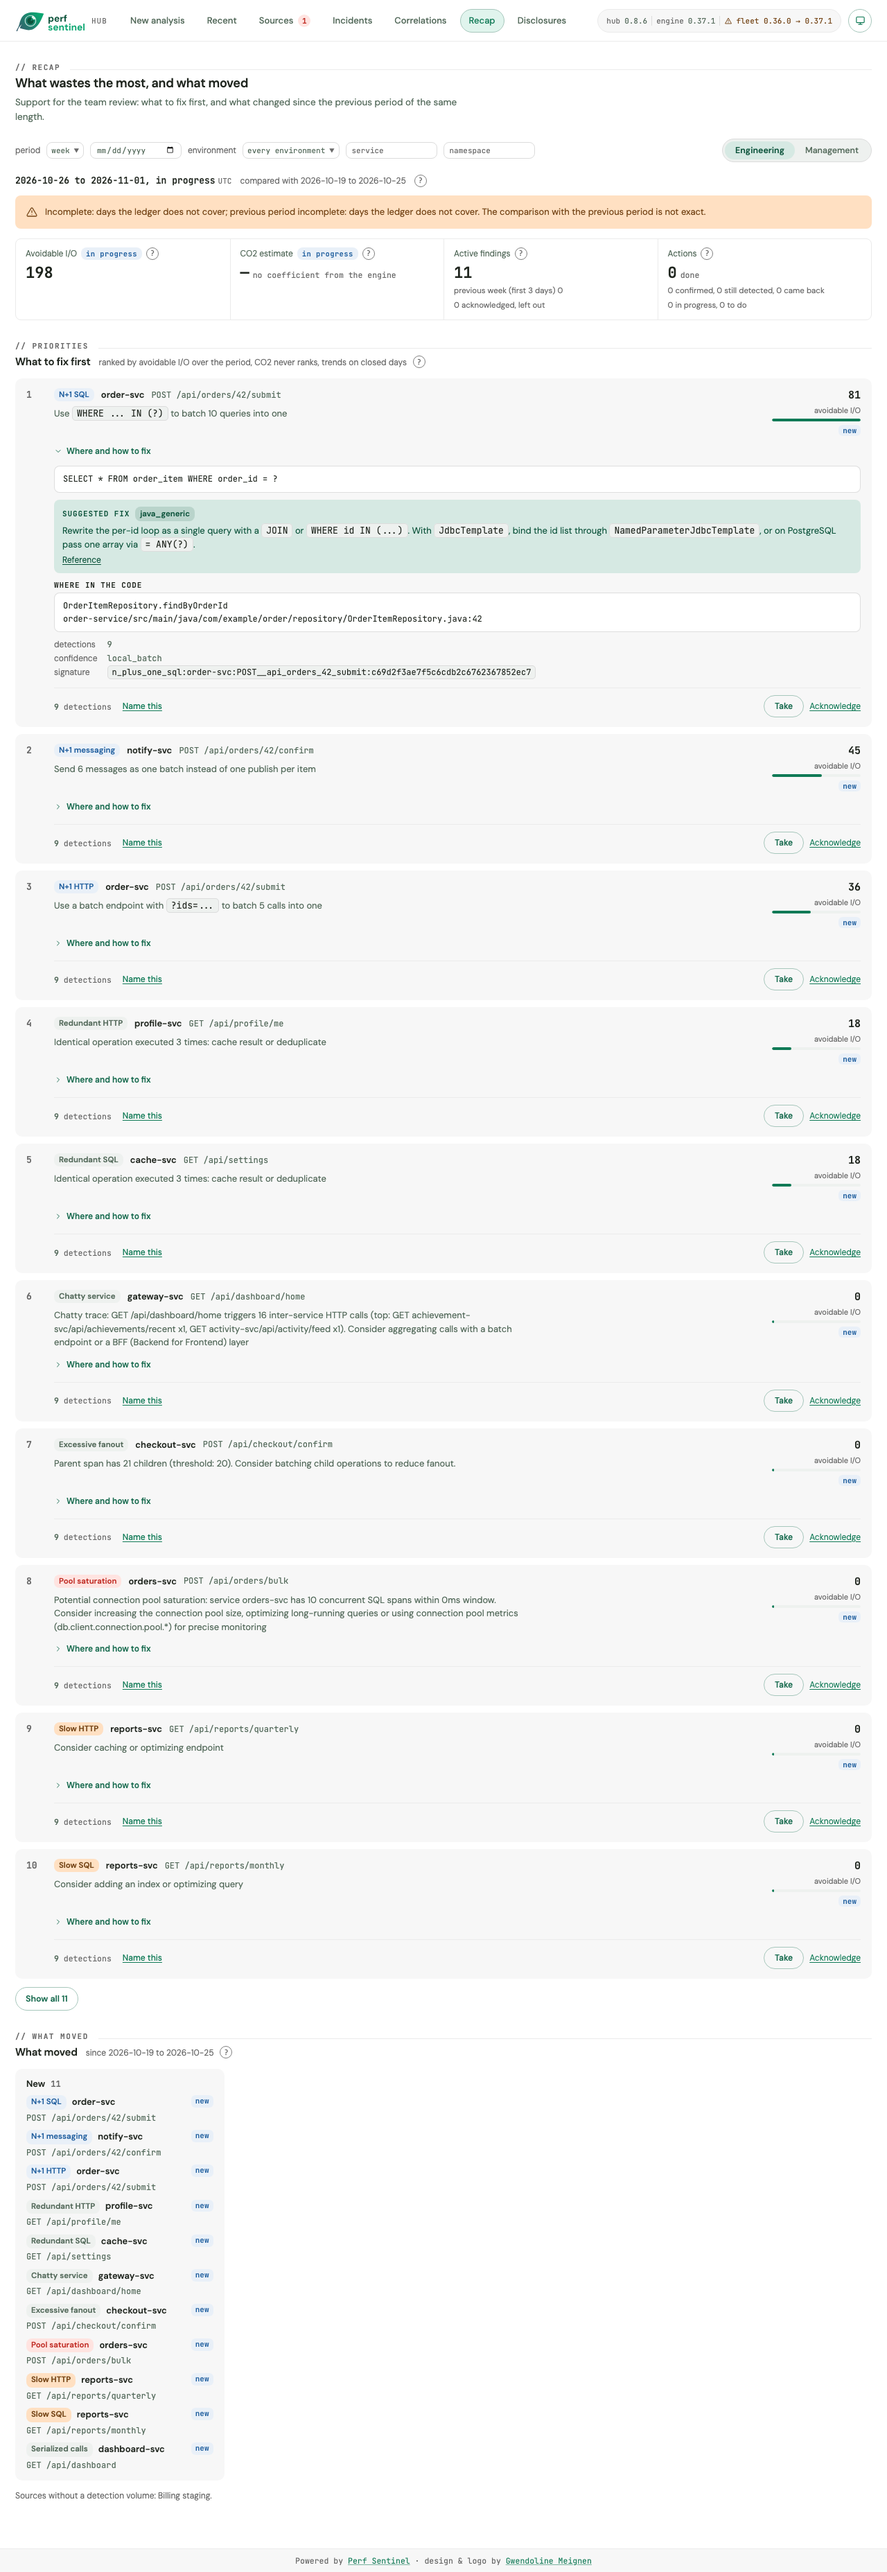
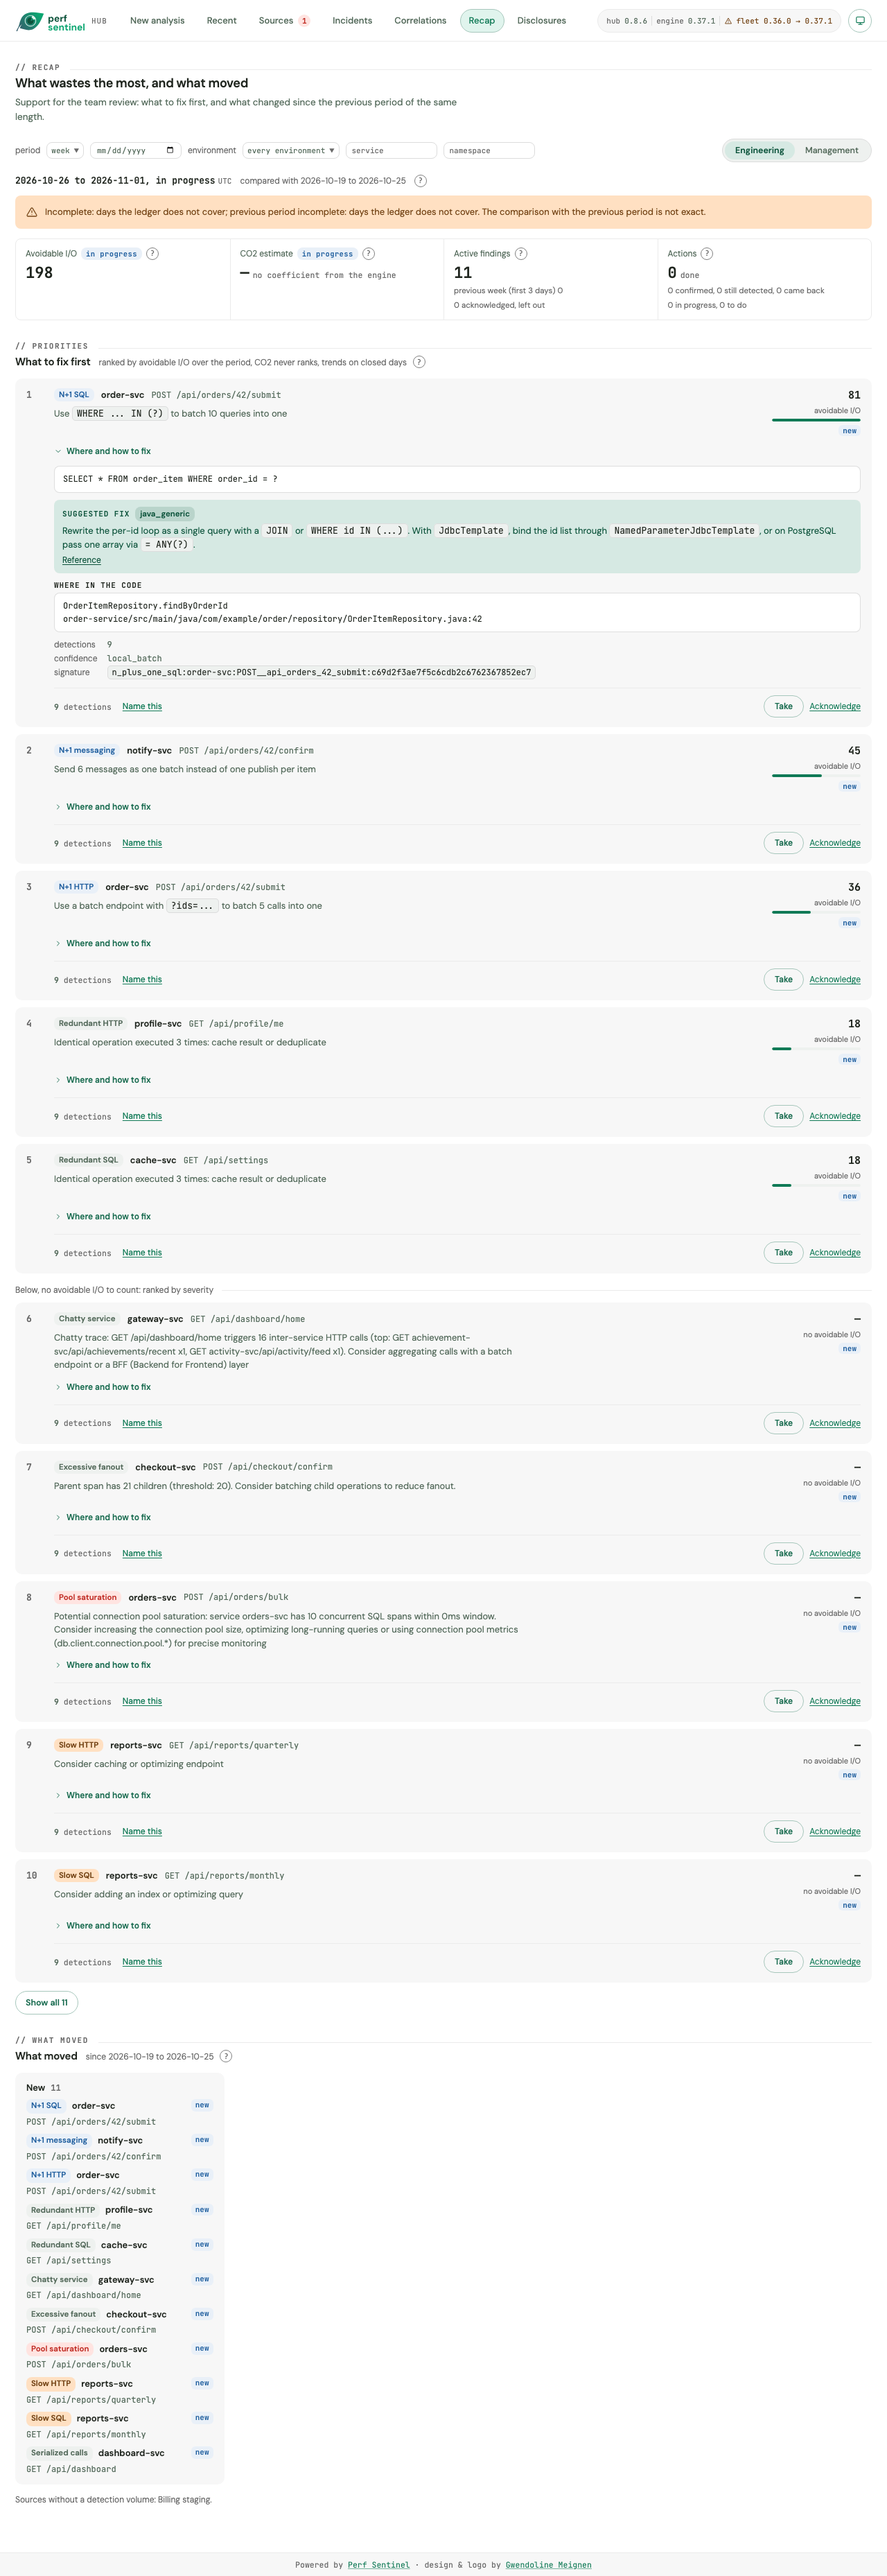
fix(ui): treat a zero avoidable volume as nothing to count in the recap ranking

diff --git a/PerfSentinelHub/wwwroot/app.js b/PerfSentinelHub/wwwroot/app.js
@@ -6299,7 +6299,7 @@
         const list = el('ol', {class: 'recap-list'});
         let divided = false;
         shown.forEach(function (priority) {
-            if (priority.avoidable_io_ops === null || priority.avoidable_io_ops === undefined) {
+            if (!PSL.hasAvoidableVolume(priority)) {
                 if (!divided) {
                     divided = true;
                     list.appendChild(el('li', {
@@ -6401,7 +6401,7 @@
 
     function recapFigure(priority, max, labels, management) {
         const lower = labels.io.charAt(0).toLowerCase() + labels.io.slice(1);
-        if (priority.avoidable_io_ops === null || priority.avoidable_io_ops === undefined) {
+        if (!PSL.hasAvoidableVolume(priority)) {
             return el('div', {class: 'recap-figure'}, [
                 el('span', {class: 'recap-figure-n', text: '—'}),
                 el('span', {class: 'recap-figure-u', text: management ? 'nothing to count' : 'no avoidable I/O'}),

diff --git a/PerfSentinelHub/wwwroot/launcher.js b/PerfSentinelHub/wwwroot/launcher.js
@@ -2376,6 +2376,16 @@
     }
 
     /**
+     * Whether a ranked item carries a volume to read. The Hub ranks on a volume above zero, so a
+     * zero is as much "nothing to count" as null and must never show as a figure.
+     * @param {{avoidable_io_ops?: number | null}} item
+     * @returns {boolean}
+     */
+    function hasAvoidableVolume(item) {
+        return item.avoidable_io_ops != null && item.avoidable_io_ops > 0;
+    }
+
+    /**
      * A row's trend as a person reads it: a word, or the relative change as a signed percentage.
      * @param {string} trend `new`, `up`, `down`, `flat`, `gone` or `unknown`
      * @param {number | null | undefined} change
@@ -2614,6 +2624,7 @@
         co2Parts,
         co2Text,
         trendText,
+        hasAvoidableVolume,
         confirmationLabel,
         periodText,
         incompleteText,

diff --git a/tests/launcher.test.js b/tests/launcher.test.js
@@ -1610,6 +1610,13 @@ test("the carbon figure says it is an estimate and what it lacks", () => {
     assert.deepEqual(PSL.co2Parts(null, 0, "no_avoidable_io"), {lead: "", figure: "—", unit: "no avoidable I/O"});
 });
 
+test("a zero or an unknown avoidable volume is not a figure to rank", () => {
+    assert.equal(PSL.hasAvoidableVolume({avoidable_io_ops: 12}), true);
+    assert.equal(PSL.hasAvoidableVolume({avoidable_io_ops: 0}), false, "a known ledger with no avoidable call");
+    assert.equal(PSL.hasAvoidableVolume({avoidable_io_ops: null}), false);
+    assert.equal(PSL.hasAvoidableVolume({}), false);
+});
+
 test("a trend reads in a word or a percentage", () => {
     assert.equal(PSL.trendText("new", null), "new");
     assert.equal(PSL.trendText("up", 0.35), "+35%");
